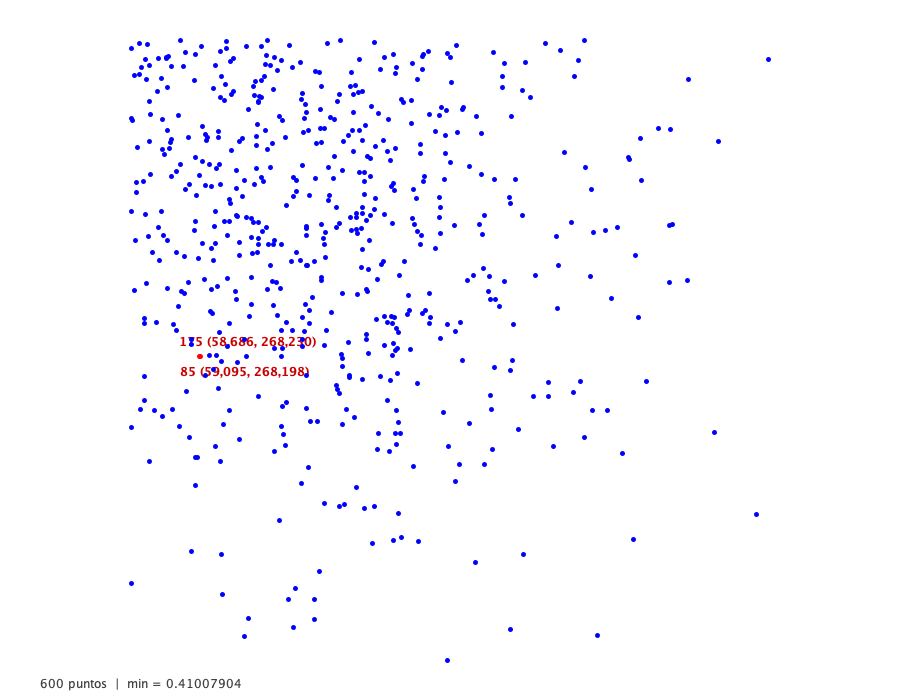
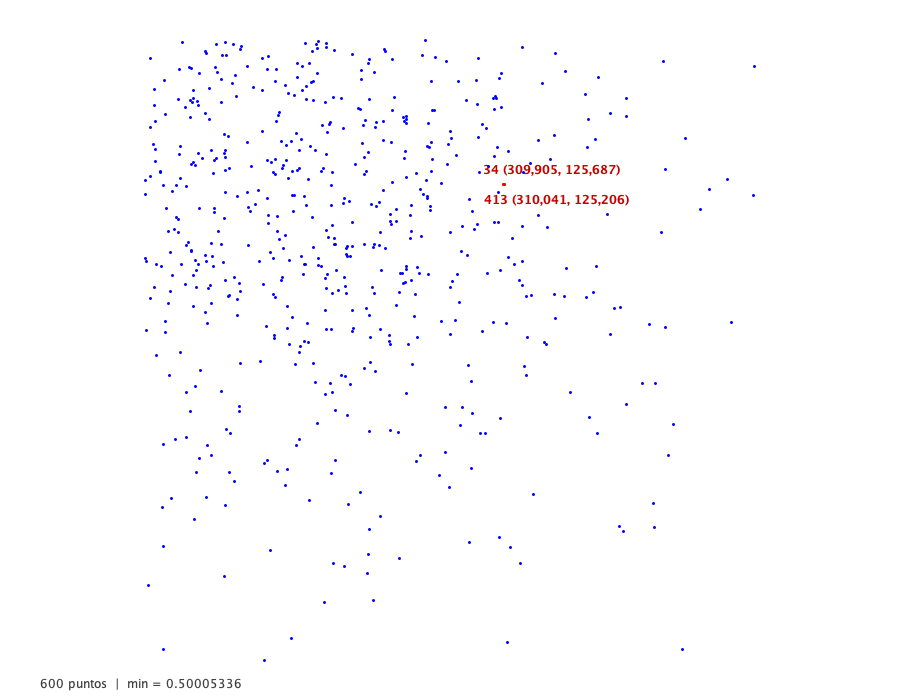
Puntos de 3px; imágenes de solución actualizadas

diff --git a/Practica1/src/main/java/com/practica1/vista/PanelGrafico.java b/Practica1/src/main/java/com/practica1/vista/PanelGrafico.java
@@ -20,7 +20,7 @@ import com.practica1.modelo.ResultadoBusqueda;
 public class PanelGrafico extends JPanel {
 
     private static final int MARGEN = 40;
-    private static final int TAM_PUNTO = 5;   // reducido: evita solapes con 600+ puntos
+    private static final int TAM_PUNTO = 3;   // evita solapes: el par solución es siempre el más cercano
 
     private List<Punto> puntos;
     private ResultadoBusqueda solucion;
